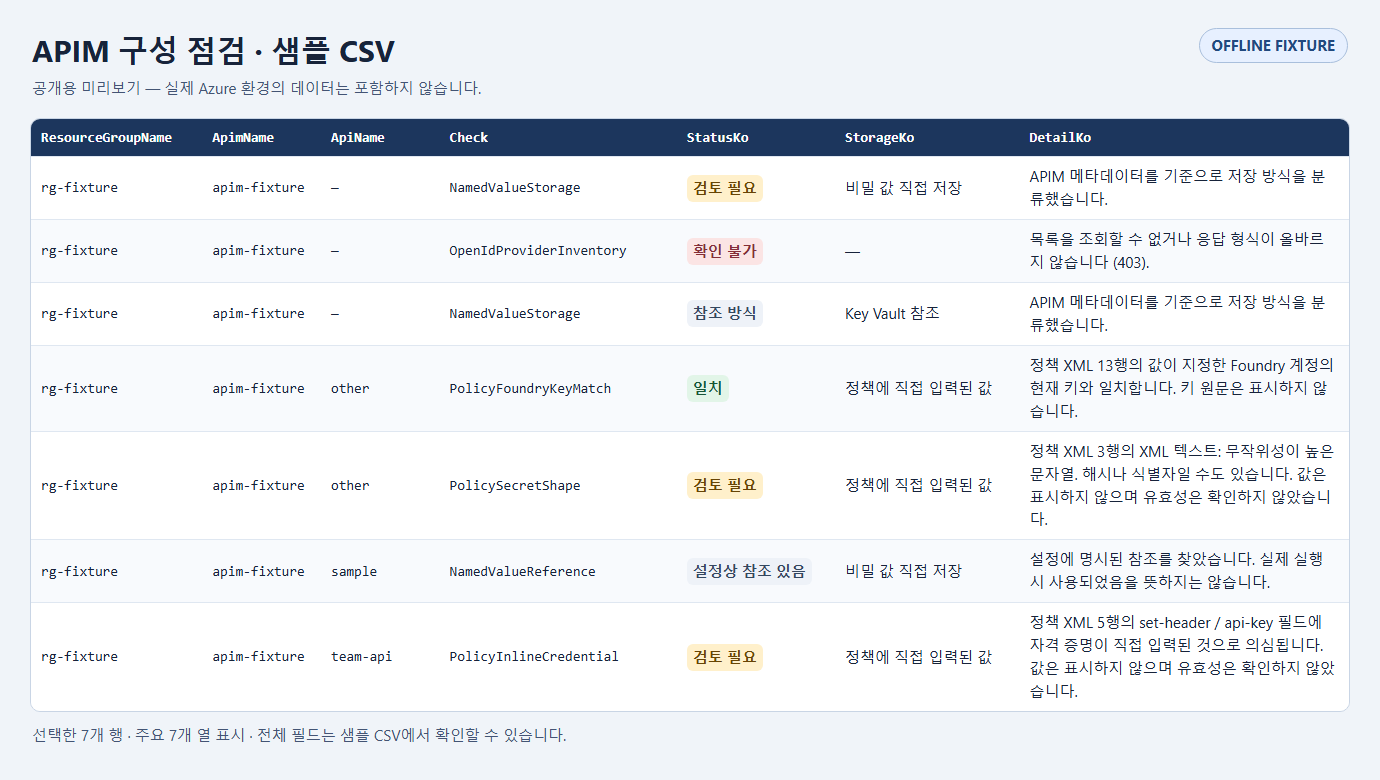
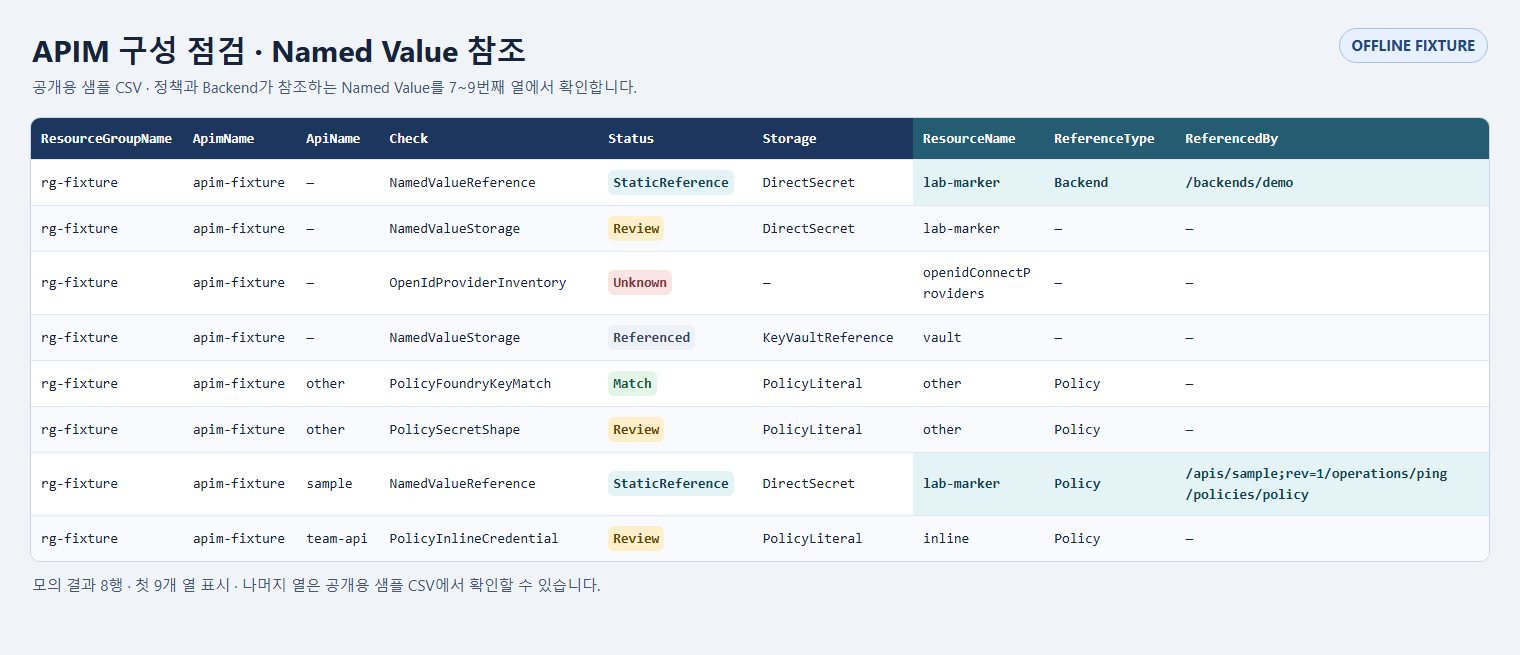
Move Named Value reference columns earlier in the audit CSV

diff --git a/README.md b/README.md
@@ -105,24 +105,27 @@ $foundryId = "/subscriptions/$subscriptionId/resourceGroups/$foundryResourceGrou
 
 ## CSV 필드와 결과 해석
 
-CSV는 **리소스 그룹 → APIM → API → 점검 항목 → 상태 → 저장 방식** 순서로 시작합니다. 각 APIM에서 API에 속하지 않는 서비스 범위 행이 먼저 나오고, 이후 같은 API의 행이 모여 있습니다. Excel에서 머리글에 필터를 걸어 리소스 그룹, APIM, API, `Check` 순서로 범위를 좁히면 됩니다. 한글이 깨지면 Excel의 **데이터 → 텍스트/CSV에서**로 가져와 UTF-8과 쉼표 구분을 선택하세요.
+CSV는 **리소스 그룹 → APIM → API → 점검 항목 → 상태 → 저장 방식**으로 시작하며, 바로 뒤의 **7~9번째 열**에 `ResourceName`, `ReferenceType`, `ReferencedBy`가 나옵니다. 각 APIM에서 API에 속하지 않는 서비스 범위 행이 먼저 나오고, 이후 같은 API의 행이 모여 있습니다. 한글이 깨지면 Excel의 **데이터 → 텍스트/CSV에서**로 가져와 UTF-8과 쉼표 구분을 선택하세요.
 
-아래는 [공개용 샘플 CSV](./docs/apim-audit-sample.csv)의 주요 열을 표시한 화면입니다. 오프라인 모의 테스트 결과만 사용했으며, 실제 Azure 구독·리소스·자격 증명은 포함하지 않습니다.
+아래는 [공개용 샘플 CSV](./docs/apim-audit-sample.csv)의 첫 9개 열입니다. 오프라인 모의 결과만 사용했으며, 실제 Azure 구독·리소스·자격 증명은 포함하지 않습니다.
 
-![모의 APIM 점검 CSV 미리보기: 리소스 그룹, APIM, API, 점검 항목, 한국어 상태·저장 방식·상세 설명](./docs/apim-audit-sample.png)
+![모의 APIM 점검 CSV 미리보기: 기본 6개 열 뒤에 ResourceName, ReferenceType, ReferencedBy가 표시됨](./docs/apim-audit-sample.png)
 
 | 필드 | 해석 |
 |---|---|
 | `ResourceGroupName`, `ApimName` | Azure 리소스 그룹과 APIM 인스턴스 이름입니다. |
 | `ApiName` | API 표시 이름이 아니라 ARM 리소스 이름입니다. API에 속하지 않는 점검은 빈칸입니다. Named Value 참조 행에서는 참조하는 API 이름을 표시합니다. |
 | `Check`, `Status`, `Storage` | 점검 코드, 결과 상태, 저장 방식입니다. 기존 필터와 자동화를 위해 영어 코드로 유지합니다. |
+| `ResourceName` | 점검 대상의 이름입니다. `NamedValueReference` 행에서는 참조하는 API 이름이 아니라 **참조되는 Named Value 이름**입니다. |
+| `ReferenceType` | 참조 또는 탐지 위치의 유형입니다. 예: `Policy`, `Fragment`, `Backend`. |
+| `ReferencedBy` | Named Value를 참조하는 정책·정책 조각·Backend의 경로입니다. 저장 방식만 확인한 행이나 참조를 찾지 못한 행은 빈칸입니다. |
 | `StatusKo`, `StorageKo` | 상태와 저장 방식의 한글 표시입니다. 저장 방식이 없는 점검은 `Storage`와 `StorageKo`가 모두 비어 있습니다. |
 | `WorkspaceName`, `ApiRevision`, `OperationName` | 하위 범위입니다. `ApiRevision`은 경로에 `;rev=`가 명시된 경우만 채워집니다. 빈칸은 리비전 점검 실패를 뜻하지 않습니다. |
-| `ResourceName` | 점검 대상의 이름입니다. 예를 들어 API가 Named Value를 참조하는 행의 `ResourceName`은 API가 아니라 Named Value 이름입니다. |
-| `ReferenceType` | 참조 또는 탐지 위치의 유형입니다. 예: `Policy`, `Fragment`, `Backend`. |
 | `DetailKo`, `Detail` | 한국어 설명이 영어 설명 바로 앞에 나옵니다. 원인, 조회 건수, 정책 XML 줄 번호, 오류 상태 코드 등이 포함될 수 있습니다. 줄 번호는 Azure가 반환한 XML 기준입니다. |
-| `Target`, `ReferencedBy` | `Target`은 점검 대상 경로, `ReferencedBy`는 그 대상을 참조하는 정책 또는 Backend 경로입니다. 정책에 직접 적힌 값의 탐지 행은 정책 경로를 `Target`에서 확인합니다. |
+| `Target` | 점검 대상 자체의 경로입니다. `NamedValueReference`에서는 `/namedValues/...`이고, `PolicyInlineCredential`처럼 정책에 직접 적힌 값을 찾은 행에서는 **정책 경로**입니다. |
 | `Source`, `CheckedAtUtc`, `ApimResourceId` | 결과 출처(실제 점검은 `Azure`, 공개용 샘플은 `Fixture`), 점검 기준 시각(UTC), APIM 전체 리소스 ID입니다. |
+
+**Named Value를 참조하는 곳만 보려면:** Excel에서 `Check = NamedValueReference`, `Status = StaticReference`로 필터링하고 `ResourceName` → `ReferenceType` → `ReferencedBy` 순으로 읽으세요. 같은 Named Value가 여러 곳에서 참조되면 여러 행으로 나옵니다. Backend나 전역 정책 참조는 `ApiName`이 비어 있어도 `ReferencedBy`에서 확인할 수 있습니다. 기존 CSV 연동이 열 번호를 기준으로 읽는다면 새 순서에 맞추거나 열 이름으로 읽도록 변경하세요.
 
 **주요 상태 해석**
 
